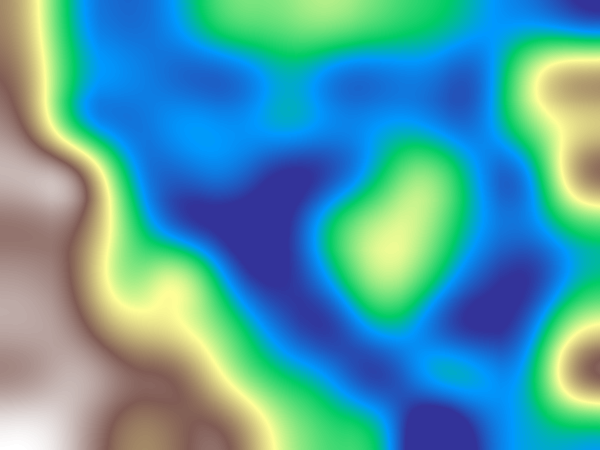
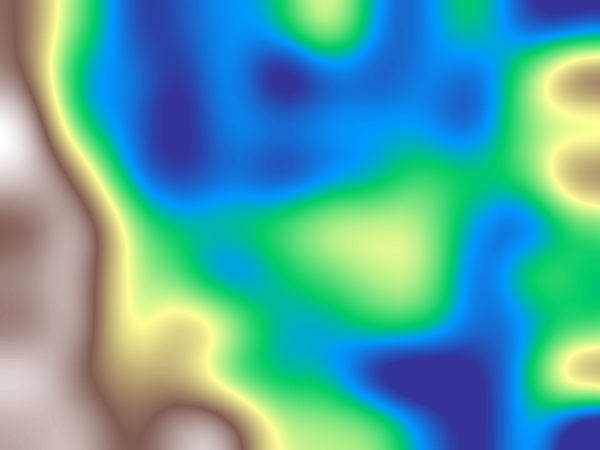
Thermiques fonctionnent .

diff --git a/main.py b/main.py
@@ -8,6 +8,7 @@ import sys
 import time
 import numpy as np
 import matplotlib.pyplot as plt
+from thermique import Thermique
 
 
 class Font():
@@ -25,12 +26,6 @@ class Font():
 
 class App:
     def __init__(self):
-        #Création de la carte
-        t1 = time.time()
-        # self.map=Carte().map
-        self.carte: Carte = Carte()
-        t2 = time.time()
-        print(f'chargement Carte en {t2-t1:.0f} s')
 
         pg.init()
         self.screen = pg.display.set_mode(RES)
@@ -38,16 +33,18 @@ class App:
         self.time = 0
         self.delta_time = 0.01
 
-        # game objects
-        print('Conversion de la carte')
+        #Création de la carte
         t1 = time.time()
-        self.bg = pg.image.load(self.carte.colormapfile)
-        self.bg = pg.transform.smoothscale(self.bg, (MWIDTH, MHEIGHT))
+        # self.map=Carte().map
+        self.carte: Carte = Carte(self.screen)
         t2 = time.time()
-        print(f'conversion Carte en {t2-t1:.0f} s')
+        print(f'chargement Carte en {t2-t1:.0f} s')
 
         #PArapente
-        self.parapente = Joueur(self.screen)
+        self.parapente = Joueur(self.screen, self.carte)
+
+        #thermiques
+        self.generate_thermals()
 
         #HUBs
         self.hubup = HubUp(self.screen, self.parapente, self.carte)
@@ -63,11 +60,20 @@ class App:
         #Mouvement des freins
         self.freind, self.freing = 0, 0
 
+    def generate_thermals(self):
+        """a compléter"""
+        thermique=Thermique(self.screen, self.carte)
+        thermique.set_param(150,5,3500)
+        thermique.move_to(250,250)
+        self.carte.add_thermique([thermique])
+
     def update(self):
         # self.scene.update()
         # self.main_group.update()
         pg.display.set_caption(f'{self.clock.get_fps(): .1f}')
         self.delta_time = self.clock.tick()
+
+        self.carte.update()
 
         self.hubup.update()
 
@@ -75,7 +81,7 @@ class App:
 
     def draw(self):
         #Background
-        self.screen.blit(self.bg, (0, 0))
+        self.carte.draw() #background
 
         #Infos
         self.fontsmall.addtext(f'vz {self.parapente.vz}','vz')
@@ -84,16 +90,12 @@ class App:
         self.screen.blit(self.fontsmall.textdic['vz'], (100,100))
         self.screen.blit(self.fontsmall.textdic['z'], (100,130))
 
-        self.fontsmall.addtext(f'debut {self.hubup.debut.x,self.hubup.debut.y}','deb')
-        self.fontsmall.addtext(f'fin {self.hubup.fin.x,self.hubup.fin.y}','fin')
-        
-        self.screen.blit(self.fontsmall.textdic['deb'], (100,160))
-        self.screen.blit(self.fontsmall.textdic['fin'], (100,190))
-
         #Hubs
         self.hubdown.draw()
         self.hubup.draw()
         
+        #Thermiques
+
 
         #Sprites
         self.spritegroup.draw(self.screen)

diff --git a/parapente.py b/parapente.py
@@ -1,7 +1,7 @@
-from matplotlib.pyplot import margins
-from regex import P
-from settings import *
 
+from settings import *
+from carte import Carte
+from thermique import Thermique
 
 class Frein():
     def __init__(self):
@@ -19,9 +19,10 @@ class Frein():
 
 
 class Parapente(pg.sprite.Sprite):
-    def __init__(self, screen):
+    def __init__(self, screen, carte : Carte):
         super().__init__()
         self.screen = screen
+        self.carte=carte
 
         #Caractéristiques physiques
         self.vmin = 6  # en m s^-1 vitesse décrochage
@@ -67,6 +68,19 @@ class Parapente(pg.sprite.Sprite):
         rapport = (self.v+deltav) / self.v
         self.vecv = self.vecv*rapport
         self.v = self.vecv.length()
+    
+    def calculate_vzthermique(self):
+        thermiques : list(Thermique) =self.carte.thermiques
+        if len(thermiques)>0 :
+            for thermique in thermiques:
+                d_fromcenter=(self.OM-thermique.OM).length()
+                if d_fromcenter < thermique.radius:
+                    self.vzthermique=thermique.get_vz(self.z)
+                    print(f'vzthermique={self.vzthermique}')
+                else:
+                    self.vzthermique = 0
+        else:
+            self.vzthermique = 0
 
     def update_v(self):
         pass
@@ -77,13 +91,15 @@ class Parapente(pg.sprite.Sprite):
         self.rect = self.image.get_rect(center=self.OM)
         #Mise à jour altitude:
         self.z += self.vz
+        #Check thermique
+        self.calculate_vzthermique()
         #Mise à jour vitesse
         self.update_v()
 
 
 class Joueur(Parapente):
-    def __init__(self, screen):
-        super().__init__(screen)
+    def __init__(self, screen , carte : Carte):
+        super().__init__(screen,carte)
         self.frein_gauche = Frein()
         self.frein_droit = Frein()
 
@@ -156,4 +172,5 @@ class Joueur(Parapente):
         #DAns un premier temps sans inertie
         #maisn En tenant compte du virage
         vzvirage=-12*(self.w/self.wmax)**2 #-12 ms^-1 en virage au taquet
-        self.vz = vzmains+vzvirage
+
+        self.vz = vzmains+vzvirage+self.vzthermique

diff --git a/thermique.py b/thermique.py
@@ -1,7 +1,53 @@
+
 from settings import *
+from carte import Carte
 
 
 class Thermique():
-    def __int__(self, screen, carte):
+    def __init__(self, screen, carte: Carte):
         self.screen = screen
         self.carte = carte
+        self.set_param(20, 4, 3000)  # par défaut
+        self.move_to(0, 0)  # par défaut aussi
+
+    def move_to(self, x, y):
+        self.OM = vec2(x, y)
+        self.zmin = self.carte.read_alt(x, y)
+
+    def set_param(self, radius, vzmax, zmax, vzmin=2):
+        '''Génénère un thermique qui aura un vz
+        qui augmente linéairement de vzmin à vzmax dans les
+        premiere_partie % de sa hauteur puis diminue de vzmax à 0
+        dans les derniere_partie % de sa hauteur'''
+        if vzmax < vzmin:
+            vzmax = vzmin
+        self.premiere_partie = 25/100
+        self.derniere_partie = 5/100
+        self.radius = radius
+        self.vzmin = vzmin
+        self.vzmax = vzmax
+        self.zmax = zmax
+
+    def get_vz(self, z):
+        
+        """
+        Ajouter une dépendance radiale
+        """
+
+        hauteur = self.zmax-self.zmin
+        if z < self.zmin or z > self.zmax:
+            return 0
+        elif z > self.premiere_partie * hauteur + self.zmin and z <= self.zmax-self.derniere_partie * hauteur:
+            # monte de plus en plus
+            print('ici')
+            return (self.vzmax-self.vzmin)*(z-self.zmin)/(self.premiere_partie * hauteur)
+        elif z > self.zmax-self.derniere_partie * hauteur:
+            # monte de moins en moins
+            print('là')
+            return (-self.vzmax)*(z-self.zmax)/(self.derniere_partie * hauteur)
+
+    def update(self):
+        pass
+
+    def draw(self):
+        pg.draw.circle(self.screen, (200, 200, 200, 0), self.OM, self.radius)

diff --git a/carte.py b/carte.py
@@ -24,7 +24,8 @@ def gauss2D(N):
 
 
 class Carte():
-    def __init__(self):
+    def __init__(self,screen):
+        self.screen = screen
         #taille 9x16
         # 0,1,2,3 pour les hauteurs()
         self.mapdef = ['3100011122211100',
@@ -68,12 +69,28 @@ class Carte():
 
         self.create_colormap()
 
+        #Pour affichage dans pygame
+        self.bg = pg.image.load(self.colormapfile)
+        self.bg = pg.transform.smoothscale(self.bg, (MWIDTH, MHEIGHT))
+
         #TODO: Clarifier
         #TILE_SIZE c'est la taille d'une tuile de minimap, pas trop utile en fait en dehors de carte
         #self.scale est l'échelle de self.map autrement dit entre i et i+1 il y a une distance scale en m
         #Ca doit avoir un rapport avec SCALE mais à clarifier
         self.scale = 2 # en m
         
+    def add_thermique(self,thermiques_list):
+        """
+        les thermiques présents
+        """
+        self.thermiques=thermiques_list
+    
+    def add_vent(self,vent):
+        """
+        On verra
+        """
+        pass
+    
 
     def make_minimap(self):
         self.minimap = [[int(num) for num in line]
@@ -163,6 +180,17 @@ class Carte():
             return 4000
         else:
             return self.map[i,j]
+
+    def draw(self):
+        self.screen.blit(self.bg, (0, 0))
+        if len(self.thermiques) > 0:
+            for thermique in self.thermiques:
+                thermique.draw()   
+
+    def update(self):
+        if len(self.thermiques) > 0:
+            for thermique in self.thermiques:
+                thermique.update()   
 
     def plot3D(self):
         height, width = self.map.shape

diff --git a/hubup.py b/hubup.py
@@ -36,14 +36,16 @@ class HubUp():
         return altitudes
 
     def prep_lines(self,altitudes):
-        linelist=[]
+        linelist=[(MWIDTH,HUPHEIGHT)] #en bas à gauche
         playeralt=self.joueur.z
         x=MWIDTH
         deltax=HUPWIDTH/self.distance
         for alt in altitudes:
             x+=deltax
+            #A revoir
             y=HUPHEIGHT-(HUPHEIGHT-25*HUPHEIGHT/100)*alt/playeralt
             linelist.append((x,y))
+        linelist.append((WIDTH,HUPHEIGHT)) #enbas à droite
         return linelist
 
 
@@ -57,4 +59,5 @@ class HubUp():
         pg.draw.line(self.screen, (128, 0, 128), self.debut, self.fin,5)
         # LE parapente
         self.screen.blit(self.image, (MWIDTH+(1-self.percent)*HUPWIDTH, 0))
-        pg.draw.lines(self.screen,(255,255,255),False, self.linelist)
+        couleur_terre=(153,76,0)
+        pg.draw.polygon(self.screen,couleur_terre, self.linelist)

diff --git a/vent.py b/vent.py
@@ -1,0 +1,7 @@
+
+from settings import *
+from carte import Carte
+
+class Vent():
+    def __init__(self, carte : Carte):
+        self.carte = carte
